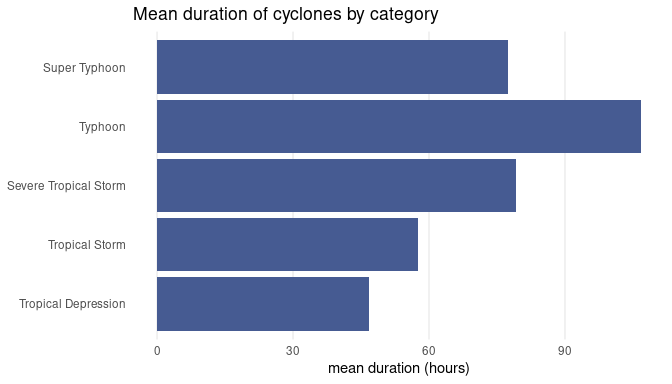
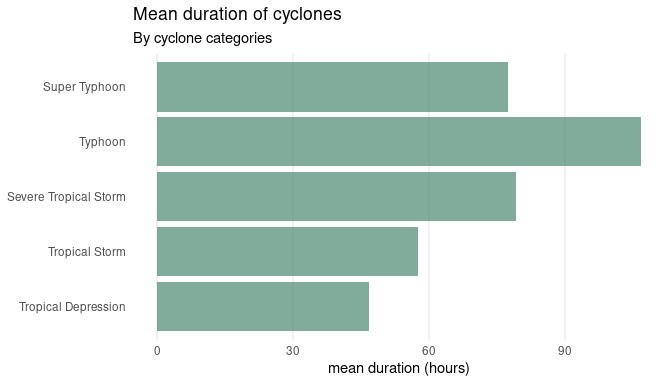
complete intro vignette

diff --git a/README.md b/README.md
@@ -37,51 +37,40 @@ collected and curated by the [Philippine Atmospheric, Geophysical, and
 Astronomical Services Administration
 (PAGASA)](https://www.pagasa.dost.gov.ph/).
 
-This package contains Philippine Tropical Cyclone data from 2017 to 2020
+This package contains Philippine tropical cyclone data from 2017 to 2020
 in a machine-readable format. It is hoped that this data package
 provides an interesting and unique dataset for data exploration and
-visualisation.
+visualisation as an adjunct to the traditional
+[`iris`](https://stat.ethz.ch/R-manual/R-devel/library/datasets/html/iris.html)
+dataset and to the current
+[`palmerpenguins`](https://allisonhorst.github.io/palmerpenguins/)
+dataset.
 
-## About the `tropical_cyclones` data
+## About the `cyclones` data
 
-The `bagyo` package contains the `tropical_cyclones` dataset. This
-dataset was taken from annual reports on Philippine tropical cyclones
-prepared and released by [PAGASA](https://www.pagasa.dost.gov.ph/) at
-its
+The `bagyo` package contains the `cyclones` dataset. This dataset was
+taken from annual reports on Philippine tropical cyclones prepared and
+released by [PAGASA](https://www.pagasa.dost.gov.ph/) at its
 [website](https://www.pagasa.dost.gov.ph/tropical-cyclone/publications/annual-report)
 in PDF format.
 
 Because the reports are in PDF format and the information described
 above are in tables within the documents, scripts for scraping the
-desired data were developed and implemented to arrive at the
-`tropical_cyclones` dataset. The data scraping script can be viewed
+desired data were developed and implemented to arrive at the `cyclones`
+dataset. The data scraping script can be viewed
 [here](https://github.com/panukatan/bagyo/blob/main/data-raw/process_data.R).
-
-The following information is available from the dataset:
-
-| **Variable**    | **Description**                                                                             |
-|:----------------|:--------------------------------------------------------------------------------------------|
-| *year*          | Year                                                                                        |
-| *category_code* | Tropical cyclone category code                                                              |
-| *category_name* | Tropical cyclone category name                                                              |
-| *name*          | Name given to the tropical cyclone by Philippine authorities                                |
-| *rsmc_name*     | Name given to the tropical cyclone by the Regional Specialized Meteorological Centre (RSMC) |
-| *start*         | Date and time at which cyclone enters Philippine area of responsibility (PAR)               |
-| *end*           | Date and time at which cyclone leaves Philippine area of responsibility (PAR)               |
-| *pressure*      | Peak central pressure in *hPa*                                                              |
-| *speed*         | Maximum sustained wind speed in *km/h*                                                      |
-
-This metadata can be viewed in R through a call to `?tropical_cyclones`
+The `cyclones` metadata can be viewed in R through a call to `?cyclones`
 in the R console.
 
-Whilst tropical cyclones have ravaged the Philippines far earlier than
+Whilst tropical cyclones have affected the Philippines far earlier than
 2017 and more currently than 2020, official and publicly available data
 for the information described above is only available in the reports for
 years 2017 to 2020. Earlier documents of this annual reporting pre-2017
-have been produced but are not available on the PAGASA website. These
-reports of the tropical cyclone season (re-started in 2019) are
-published within two years after the termination of the season. Hence,
-the most recent report is only up to 2020.
+have been produced but are not available on the
+[PAGASA](https://www.pagasa.dost.gov.ph/) website. These reports of the
+tropical cyclone season (re-started in 2019) are published within two
+years after the termination of the season. Hence, the most recent report
+is only up to 2020 for now.
 
 ## Installation
 
@@ -95,14 +84,14 @@ install.packages(
 )
 ```
 
-Once the `bagyo` package has been installed, the `tropical_cyclones`
-dataset can be loaded into R as follows:
+Once the `bagyo` package has been installed, the `cyclones` dataset can
+be loaded into R as follows:
 
 ``` r
 library(bagyo)
 data(package = "bagyo")
 
-tropical_cyclones
+cyclones
 #> # A tibble: 86 × 9
 #>     year category_code category_name         name  rsmc_name start              
 #>    <dbl> <fct>         <fct>                 <chr> <chr>     <dttm>             
@@ -122,27 +111,13 @@ tropical_cyclones
 
 ## Usage
 
-### Demonstrate tidy data wrangling
-
-#### Tropical cyclones are interesting to summarise
+### `cyclones` are interesting to summarise
 
 ``` r
 library(dplyr)
 
-## Get yearly mean cyclone pressure and speed ----
-tropical_cyclones |>
-  group_by(year) |>
-  summarise(mean_pressure = mean(pressure), mean_speed = mean(speed))
-#> # A tibble: 4 × 3
-#>    year mean_pressure mean_speed
-#>   <dbl>         <dbl>      <dbl>
-#> 1  2017          986.       88.0
-#> 2  2018          961.       66.7
-#> 3  2019          976.       59.0
-#> 4  2020          973.       62.0
-
 ## Get cyclone category mean pressure and speed ----
-tropical_cyclones |>
+cyclones |>
   group_by(category_name) |>
   summarise(
     n = n(),
@@ -159,11 +134,11 @@ tropical_cyclones |>
 #> 5 Super Typhoon             2          908.      112.
 ```
 
-#### Tropical cyclones are useful in learning how to work with dates
+### `cyclones` are useful in learning how to work with dates
 
 ``` r
 ## Get cyclone category mean duration (in hours) ----
-tropical_cyclones |>
+cyclones |>
   mutate(duration = end - start) |>
   group_by(category_name) |>
   summarise(mean_duration = mean(duration))
@@ -177,13 +152,9 @@ tropical_cyclones |>
 #> 5 Super Typhoon          77.50000 hours
 ```
 
-### Demonstrate various `ggplot2` data visualisation geoms
-
-#### Bar plots
+### `cyclones` are great to visualise
 
 <img src="man/figures/README-barplot-1.png" style="display: block; margin: auto;" />
-
-#### Scatter plots
 
 <img src="man/figures/README-scatterplot-1.png" style="display: block; margin: auto;" />
 
